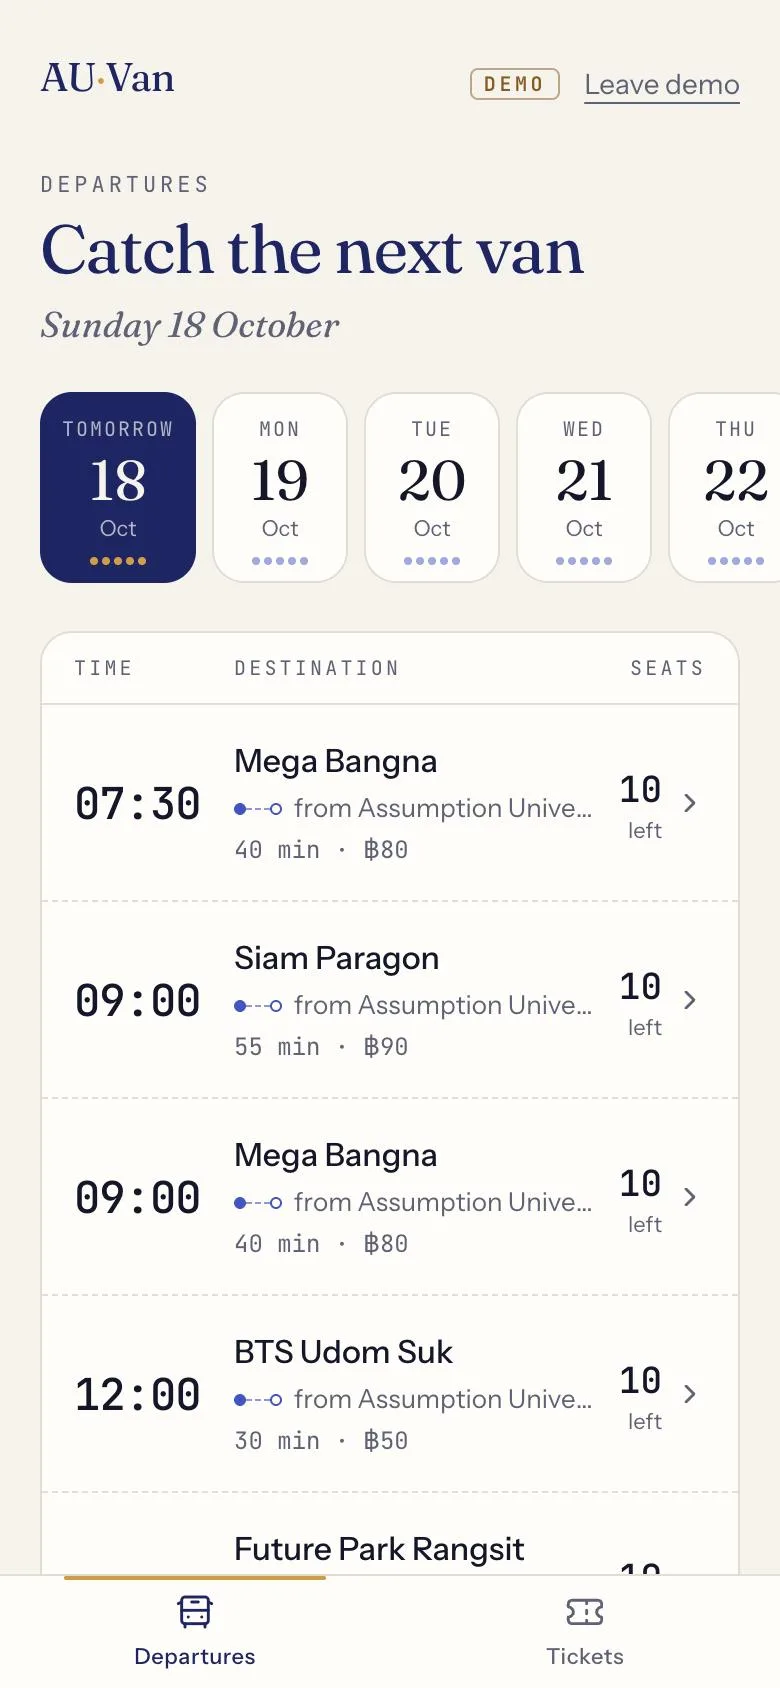
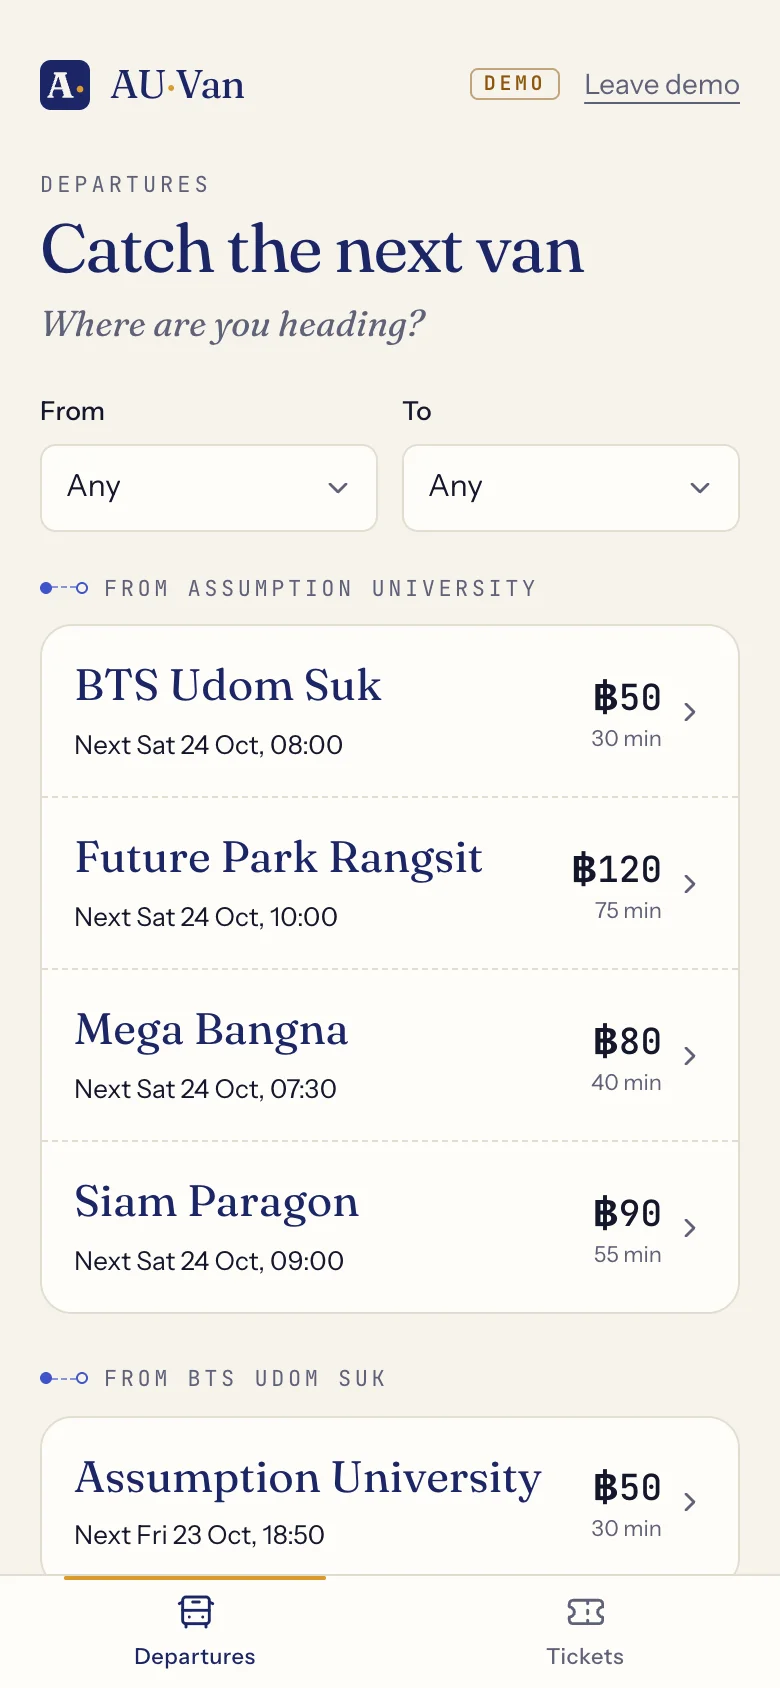
docs(web): refresh screenshots for route-first booking and trips

diff --git a/web/src/components/Screenshots.tsx b/web/src/components/Screenshots.tsx
@@ -2,7 +2,7 @@ import { BrowserFrame, PhoneFrame, ShotImage } from "./DeviceFrames";
 import { LandingSection } from "./LandingSection";
 
 const phoneShots = [
-  { src: "/landing/student-trips.webp", caption: "Today’s departures" },
+  { src: "/landing/student-trips.webp", caption: "Picking a route" },
   { src: "/landing/seat-picker.webp", caption: "Choosing a seat" },
   { src: "/landing/boarding-pass.webp", caption: "The boarding pass" },
 ];
@@ -15,7 +15,7 @@ const browserShots = [
   },
   {
     src: "/landing/admin-trips.webp",
-    caption: "The trip calendar",
+    caption: "Trips by route",
     address: "auvan.duckdns.org/admin/trips",
   },
 ];
